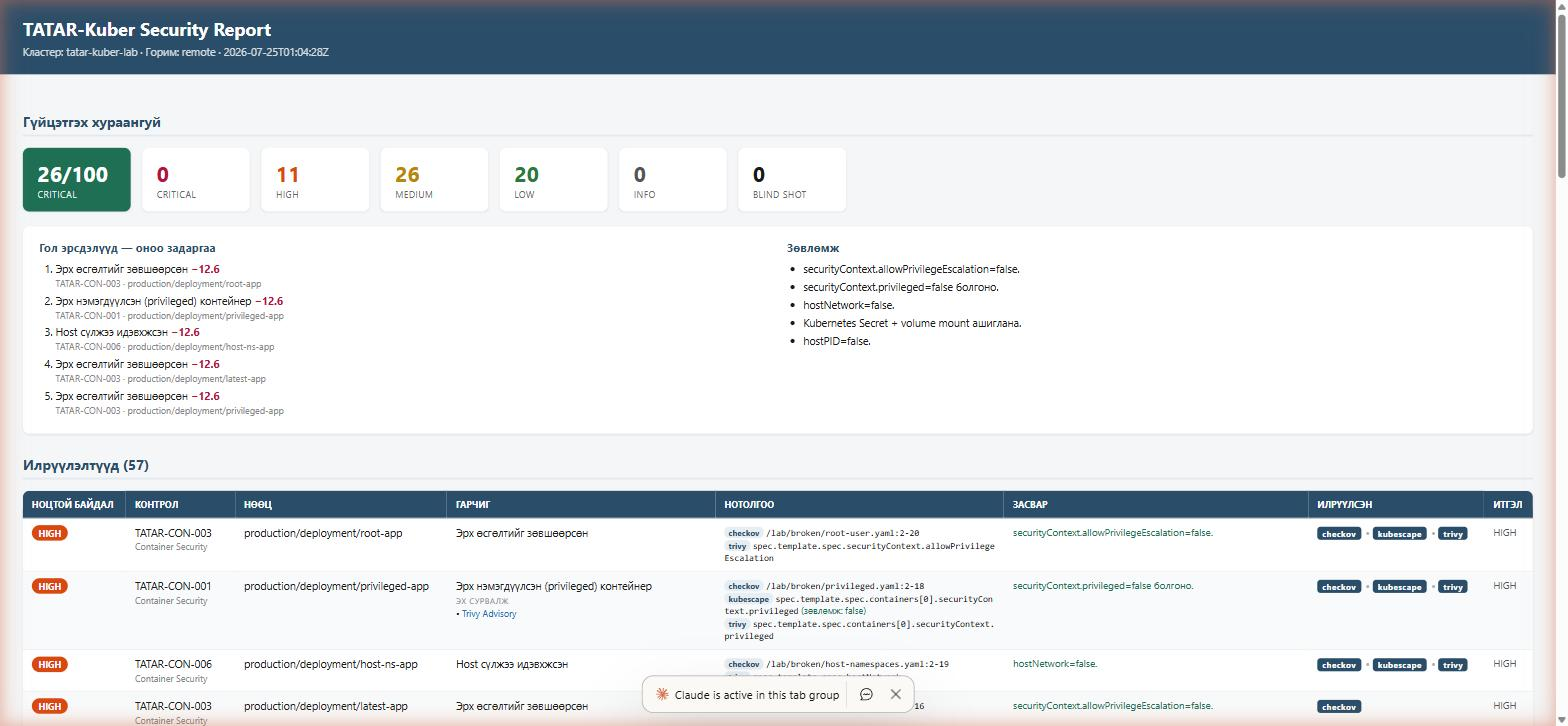
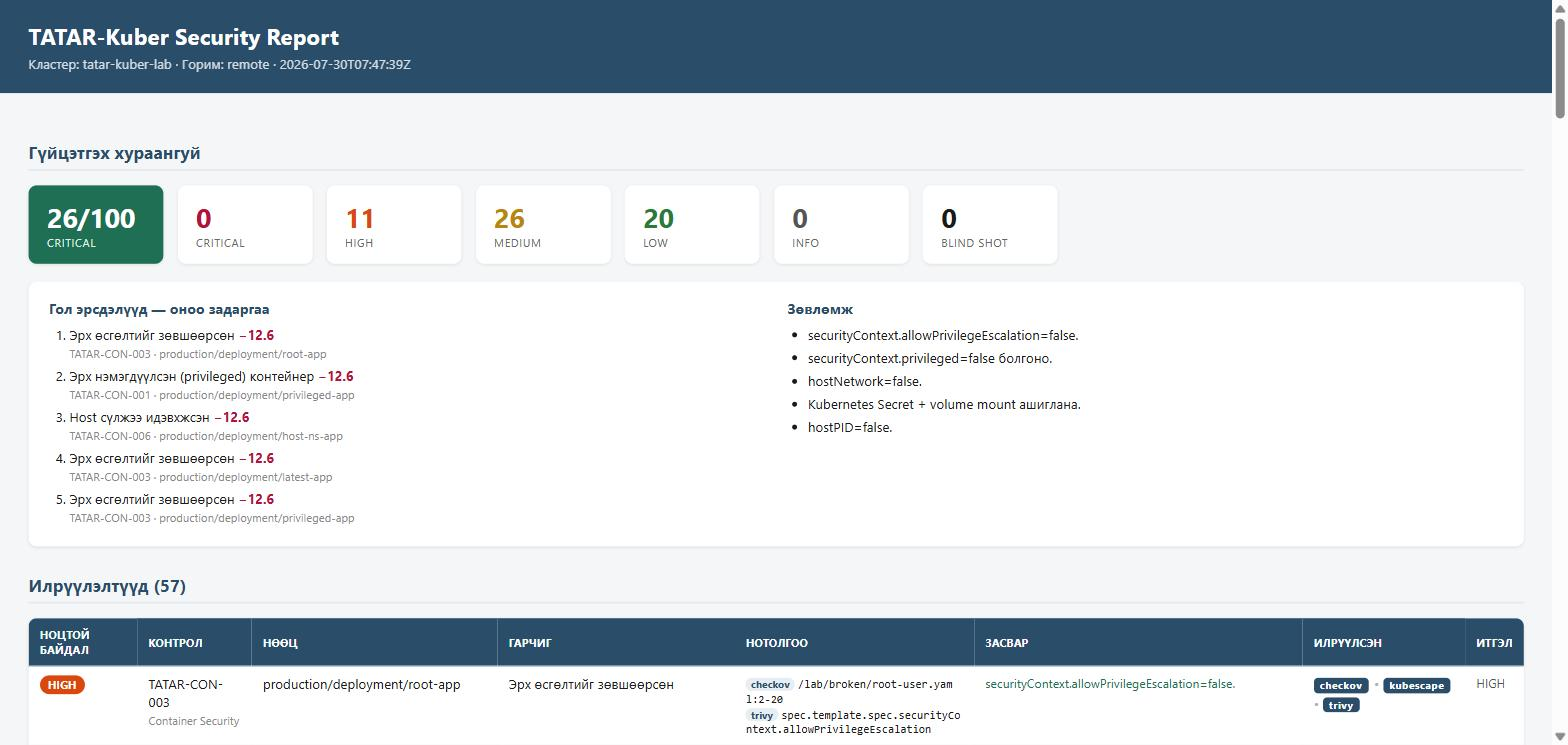
docs: Mongolian Scope as tables (match English); clean Mongolian report screenshot (no toast)

diff --git a/README.md b/README.md
@@ -182,12 +182,29 @@ TATAR-Kuber нь **posture / configuration / IaC / image / RBAC + нэгдсэн
 төвлөрдөг. Runtime threat detection (Falco/Tetragon), admission control (Kyverno/OPA),
 secrets management (Vault)-ыг **орлохгүй — тэдгээртэй хамт ажилладаг (complementary).**
 
-**Хийдэг:** cluster posture ✅ · misconfiguration ✅ · RBAC ✅ · workload/pod ✅ ·
-image CVE ✅ · IaC (YAML/Helm) ✅ · compliance mapping ✅ · risk + reporting ✅ ·
-runtime hygiene ⚠ (Popeye — threat detection биш).
+**Хийдэг**
 
-**Хийхгүй (зориудаар) — хамт ашигла:** runtime threat detection → Falco/Tetragon ·
-network monitoring → Cilium/Hubble · admission control → Kyverno/OPA · secrets → Vault.
+| Домэйн | | Тайлбар |
+|---|:--:|---|
+| Cluster configuration & posture | ✅ | Kubescape / Trivy (live Mode B хийгдэж байна) |
+| Kubernetes misconfiguration | ✅ | Trivy · Kubescape · Checkov |
+| RBAC аюулгүй байдал | ✅ | хэт их эрх, wildcard, cluster-admin |
+| Pod / Workload аюулгүй байдал | ✅ | privileged, hostPath, capabilities, runAsRoot… |
+| Image эмзэг байдал | ✅ | Trivy CVE |
+| IaC аюулгүй байдал | ✅ | YAML / Helm (Terraform хэсэгчлэн, Checkov) |
+| Compliance mapping | ✅ | NSA / CIS / MITRE (canonical, хэсэгчлэн) |
+| Тайлан & risk scoring | ✅ | dedup, оноо, JSON / SARIF / HTML |
+| Runtime hygiene | ⚠ | Popeye — threat detection БИШ |
+
+**Хийхгүй (зориудаар) — хамт ашигла**
+
+| Хамрахгүй | Оронд нь |
+|---|---|
+| Runtime threat detection | Falco · Tetragon |
+| Network traffic monitoring (eBPF) | Cilium/Hubble · Falco |
+| Container behavioral detection | Falco · Tetragon |
+| Admission control (deploy блоклох) | Kyverno · OPA Gatekeeper |
+| Secrets management | HashiCorp Vault · External Secrets |
 
 ### Түргэн эхлэл (offline, cluster/суулгац хэрэггүй)
 
